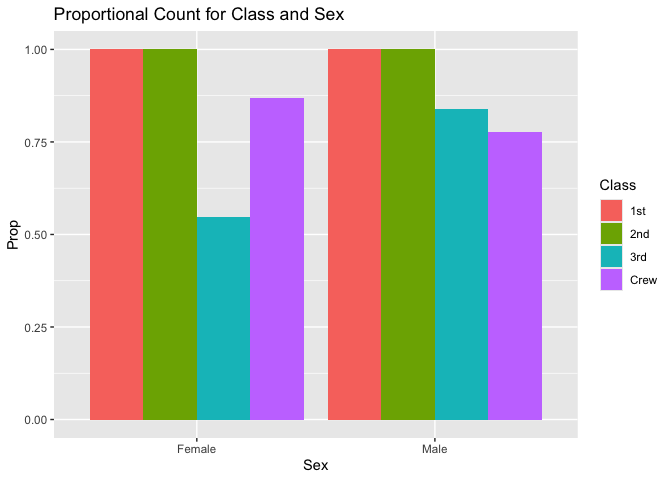
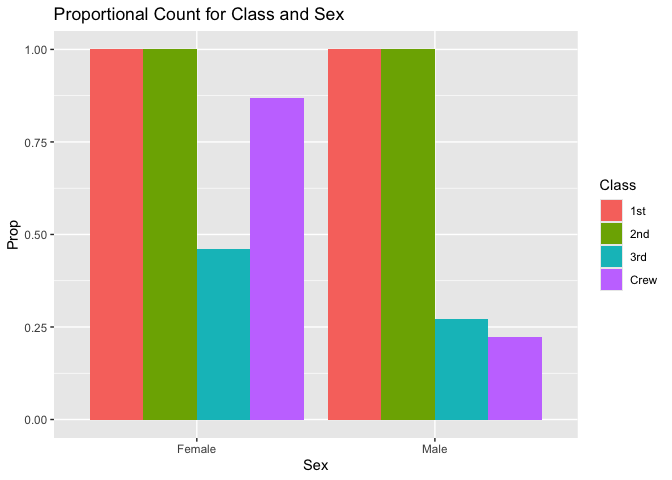
revised c01 titanic

Changed region(s): [[0.625, 0.2188, 0.8125, 0.7188], [0.2812, 0.4375, 0.375, 0.5312]]

diff --git a/challenges/c01-titanic-assignment.md b/challenges/c01-titanic-assignment.md
@@ -155,22 +155,26 @@ df_titanic %>% summarize(total = sum(n))
 ``` r
 ## TASK: Visualize counts against `Class` and `Sex`
 df_titanic %>%
-  ggplot(aes(x = Sex, y = n, fill = Class)) +
-  geom_col(position = "Dodge") +
-  labs(
-    title = "Count for Class and Sex",
-    y = "n (count)"
-  )
+  filter(Survived == "Yes") %>%
+    ggplot(aes(x = Sex, y = n, fill = Class)) +
+    geom_col(position = "Dodge") +
+    labs(
+      title = "Count for Class and Sex",
+      y = "n (count)"
+    )
 ```
 
 ![](c01-titanic-assignment_files/figure-gfm/q3-task-1.png)<!-- -->
 
 **Observations**:
 
-- A lot more men were present on the ship then women, one reason being
-  that most of the crew is made up of men and accounted for almost half
-  of the passengers.
-- First class is the only class where women outnumbered guys.
+- The class and gender with he largest quantity of survivors were male
+  crew members.
+
+- First class women were the second largest group to survive.
+
+- Interestingly, male lower classes (3rd and crew) had higher survival
+  numbers than 1st class males.
 
 # Deeper Look
 
@@ -218,14 +222,15 @@ df_prop
 
 ``` r
 df_prop %>%
-  ggplot(aes(x = Sex, y = Prop, fill = Class)) +
-  geom_col(position = "Dodge") +
-  labs(
-    title = "Proportional Count for Class and Sex",
-  )
+  filter(Survived == "Yes") %>%
+    ggplot(aes(x = Sex, y = Prop, fill = Class)) +
+    geom_col(position = "Dodge") +
+    labs(
+      title = "Proportional Count for Class and Sex",
+    )
 ```
 
-    ## Warning: Removed 4 rows containing missing values or values outside the scale range
+    ## Warning: Removed 2 rows containing missing values or values outside the scale range
     ## (`geom_col()`).
 
 ![](c01-titanic-assignment_files/figure-gfm/q4-task-1.png)<!-- -->
@@ -246,15 +251,16 @@ additional variables!
 
 ``` r
 df_prop %>%
-  ggplot(aes(x = Sex, y = Prop, fill = Class)) +
-  geom_col(position = "Dodge") + 
-  facet_grid(~Age) +
-  labs(
-    title = "Survival by Class, Sex, and Age "
-  )
+  filter(Survived == "Yes") %>%
+    ggplot(aes(x = Sex, y = Prop, fill = Class)) +
+    geom_col(position = "Dodge") + 
+    facet_grid(~Age) +
+    labs(
+      title = "Survival by Class, Sex, and Age "
+    )
 ```
 
-    ## Warning: Removed 4 rows containing missing values or values outside the scale range
+    ## Warning: Removed 2 rows containing missing values or values outside the scale range
     ## (`geom_col()`).
 
 ![](c01-titanic-assignment_files/figure-gfm/q5-task-1.png)<!-- -->
@@ -262,8 +268,8 @@ df_prop %>%
 **Observations**:
 
 - All 1st and 2nd class children for both genders survived.
-- Most of the women in 1st and 2nd class survived.
 - The only children who didn’t survive were in 3rd class.
+- Most of the women in 1st and 2nd class and crew survived.
 - Men were more likely not to survive.
 - If you saw something *fishy* in q4 above, use your new plot to explain
   the fishy-ness.
